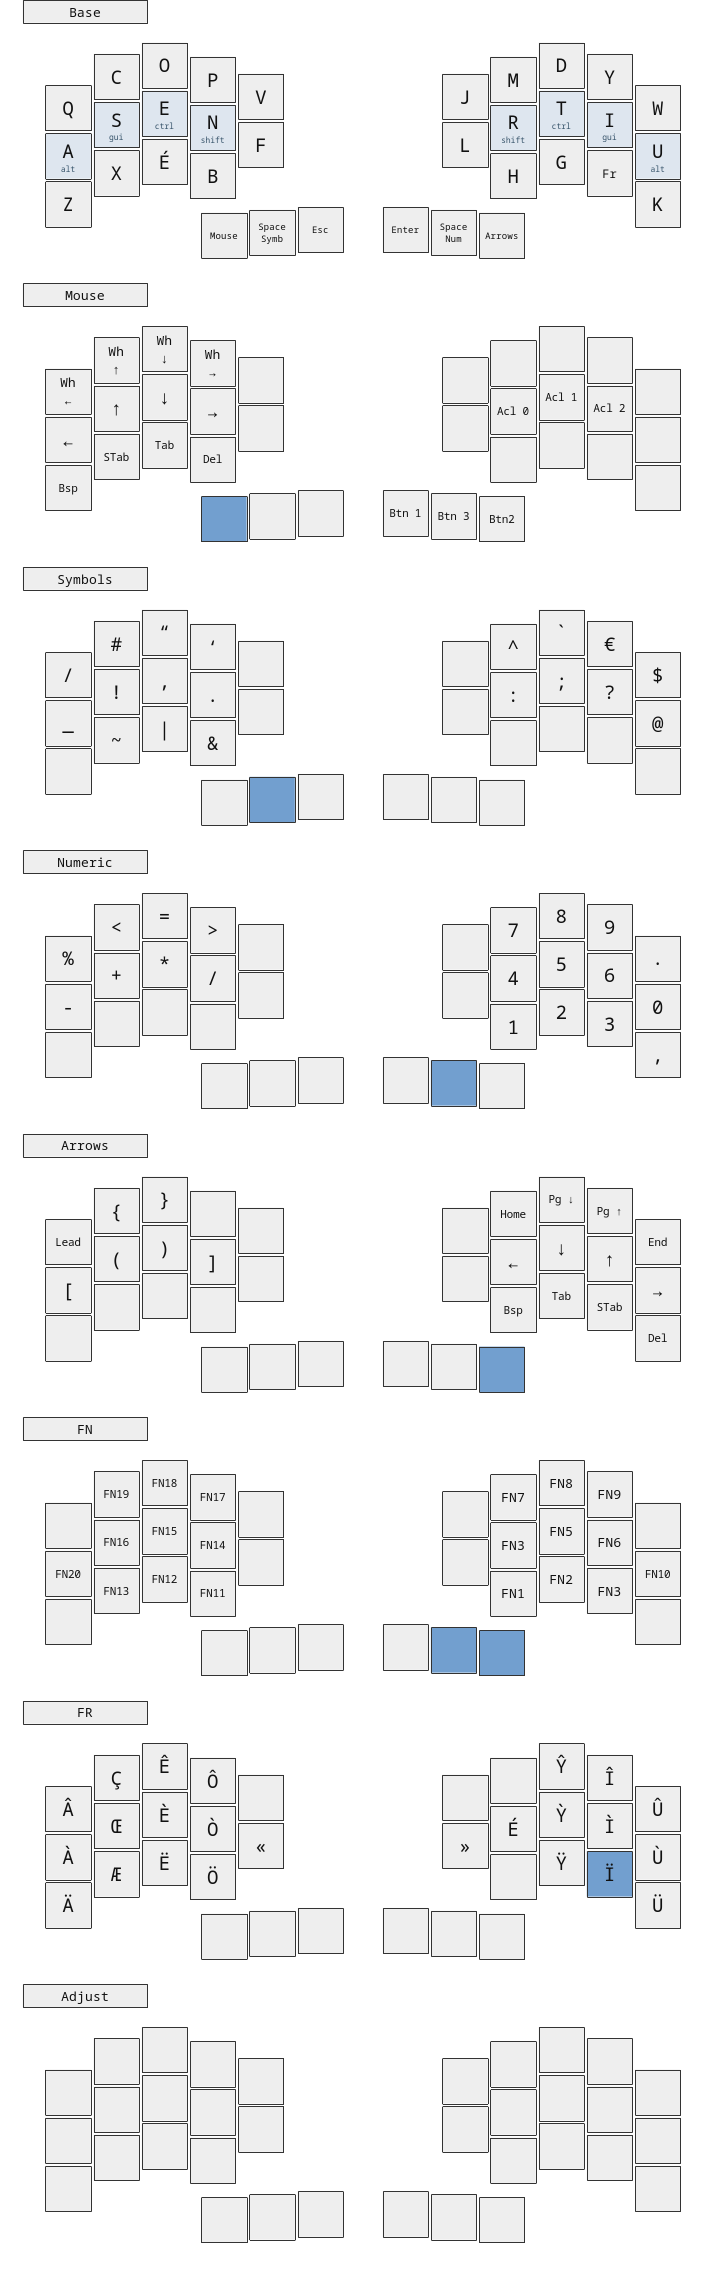
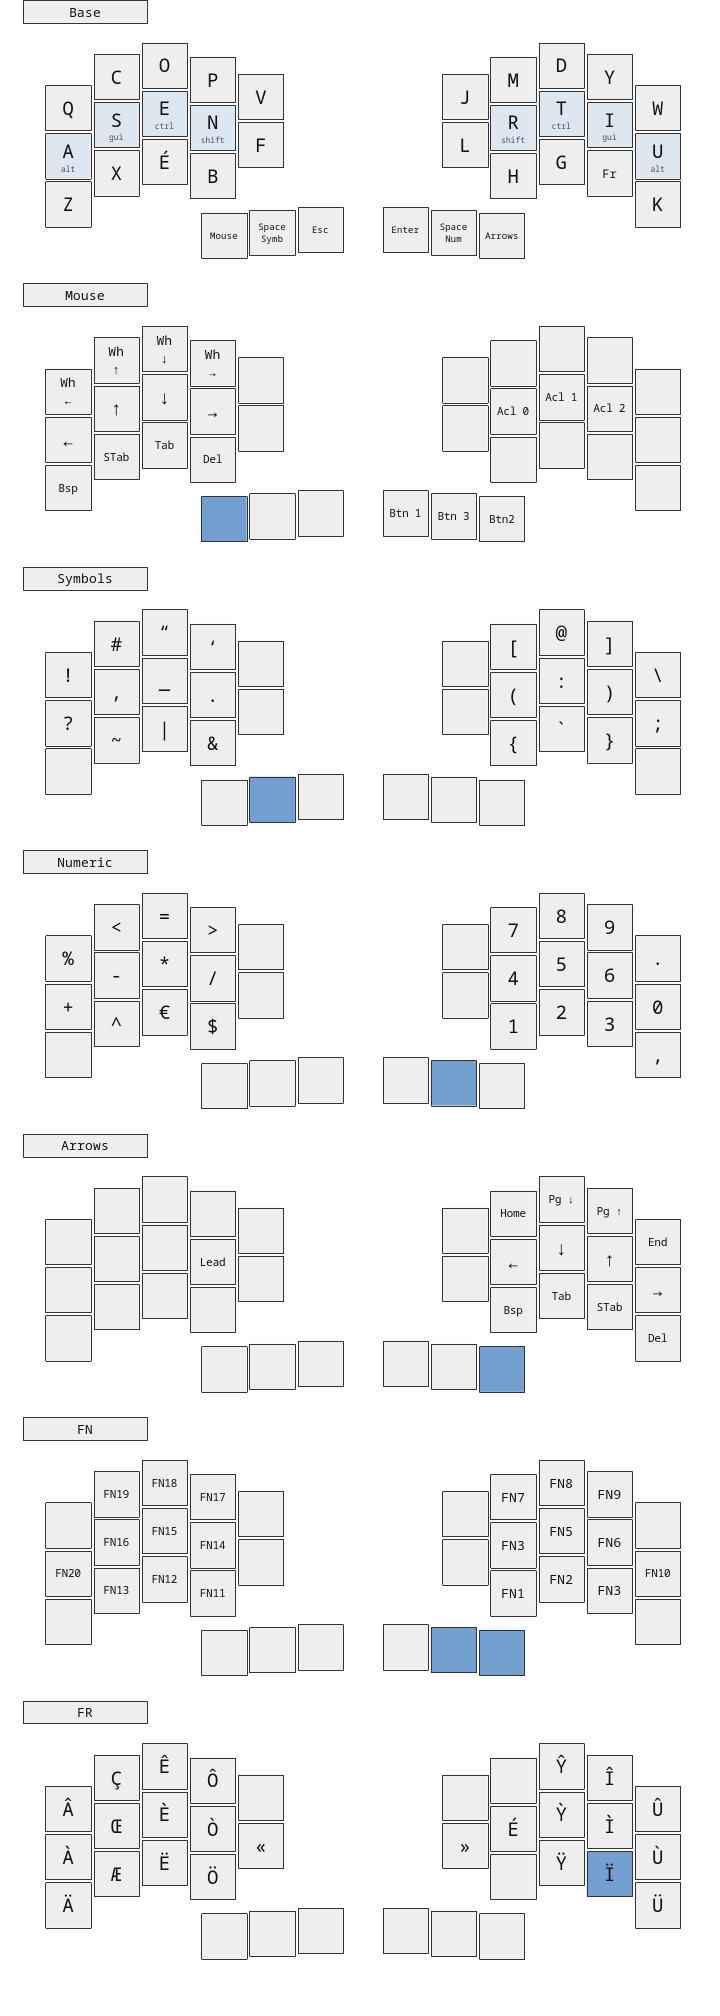
Simplify symbols

diff --git a/keymap.c b/keymap.c
@@ -34,11 +34,11 @@ const uint16_t PROGMEM keymaps[][MATRIX_ROWS][MATRIX_COLS] = {
 
     [_SYMBOLS] = LAYOUT(
     //----------------+-------------+-------------+-------------+----------|       |----------+-------------+-------------+-------------+-------------|
-         KC_BACKSLASH ,   KC_HASH   ,   KC_DQUO   ,  KC_QUOTE   ,  XXXXXXX ,          XXXXXXX ,   KC_CIRC   ,   KC_GRAVE  ,   US_EURO   ,  KC_DOLLAR  ,
+           KC_EXLM    ,   KC_HASH   ,   KC_DQUO   ,  KC_QUOTE   ,  XXXXXXX ,          XXXXXXX ,   KC_LBRC   ,    KC_AT    ,   KC_RBRC   , KC_BACKSLASH,
     //----------------+-------------+-------------+-------------+----------|       |----------+-------------+-------------+-------------+-------------|
-        KC_UNDERSCORE ,   KC_EXLM   ,   KC_COMMA  ,   KC_DOT    ,  XXXXXXX ,          XXXXXXX ,   KC_COLON  , KC_SEMICOLON, KC_QUESTION ,    KC_AT    ,
+         KC_QUESTION  ,   KC_COMMA  ,KC_UNDERSCORE,   KC_DOT    ,  XXXXXXX ,          XXXXXXX ,   KC_LPRN   ,   KC_COLON  ,   KC_RPRN   , KC_SEMICOLON,
     //----------------+-------------+-------------+-------------+----------|       |----------+-------------+-------------+-------------+-------------|
-           XXXXXXX    ,   KC_TILDE  ,   KC_PIPE   , KC_AMPERSAND,                                 XXXXXXX   ,   XXXXXXX   ,   XXXXXXX   ,   XXXXXXX   ,
+           XXXXXXX    ,   KC_TILDE  ,   KC_PIPE   , KC_AMPERSAND,                                 KC_LCBR   ,   KC_GRAVE  ,   KC_RCBR   ,   XXXXXXX   ,
     //----------------+-------------+-------------+-------------|                             |-------------+-------------+-------------+-------------|
     //                                         |---------+---------+---------|   |---------+---------+---------|
                                                  _______ , XXXXXXX , _______ ,     _______ , _______ , _______
@@ -49,9 +49,9 @@ const uint16_t PROGMEM keymaps[][MATRIX_ROWS][MATRIX_COLS] = {
     //----------------+-------------+-------------+-------------+----------|       |----------+-------------+-------------+-------------+-------------|
           KC_PERCENT  ,   KC_LABK   ,   KC_EQUAL  ,   KC_RABK   ,  XXXXXXX ,          XXXXXXX ,     KC_7    ,     KC_8    ,     KC_9    ,   KC_DOT    ,
     //----------------+-------------+-------------+-------------+----------|       |----------+-------------+-------------+-------------+-------------|
-           KC_MINUS   ,   KC_PLUS   , KC_ASTERISK ,   KC_SLASH  ,  XXXXXXX ,          XXXXXXX ,     KC_4    ,     KC_5    ,     KC_6    ,    KC_0     ,
+           KC_PLUS    ,   KC_MINUS  , KC_ASTERISK ,   KC_SLASH  ,  XXXXXXX ,          XXXXXXX ,     KC_4    ,     KC_5    ,     KC_6    ,    KC_0     ,
     //----------------+-------------+-------------+-------------+----------|       |----------+-------------+-------------+-------------+-------------|
-           XXXXXXX    ,   XXXXXXX   ,   XXXXXXX   ,   XXXXXXX   ,                                   KC_1    ,     KC_2    ,     KC_3    ,   KC_COMMA  ,
+           XXXXXXX   ,    KC_CIRC   ,   US_EURO   ,  KC_DOLLAR  ,                                   KC_1    ,     KC_2    ,     KC_3    ,   KC_COMMA  ,
     //----------------+-------------+-------------+-------------|                             |-------------+-------------+-------------+-------------|
     //                                         |---------+---------+---------|   |---------+---------+---------|
                                                  _______ , _______ , _______ ,     _______ , XXXXXXX , _______
@@ -60,9 +60,9 @@ const uint16_t PROGMEM keymaps[][MATRIX_ROWS][MATRIX_COLS] = {
 
     [_ARROWS] = LAYOUT(
     //----------------+-------------+-------------+-------------+----------|       |----------+-------------+-------------+-------------+-------------|
-          QK_LEADER   ,   KC_LCBR   ,   KC_RCBR   ,   XXXXXXX   ,  XXXXXXX ,          XXXXXXX ,   KC_HOME   , KC_PAGE_DOWN,  KC_PAGE_UP ,   KC_END    ,
+           XXXXXXX    ,   XXXXXXX   ,   XXXXXXX   ,   XXXXXXX   ,  XXXXXXX ,          XXXXXXX ,   KC_HOME   , KC_PAGE_DOWN,  KC_PAGE_UP ,   KC_END    ,
     //----------------+-------------+-------------+-------------+----------|       |----------+-------------+-------------+-------------+-------------|
-           KC_LBRC    ,   KC_LPRN   ,   KC_RPRN   ,   KC_RBRC   ,  XXXXXXX ,          XXXXXXX ,   KC_LEFT   ,   KC_DOWN   ,    KC_UP    ,   KC_RIGHT  ,
+           XXXXXXX    ,   XXXXXXX   ,   XXXXXXX   ,  QK_LEADER  ,  XXXXXXX ,          XXXXXXX ,   KC_LEFT   ,   KC_DOWN   ,    KC_UP    ,   KC_RIGHT  ,
     //----------------+-------------+-------------+-------------+----------|       |----------+-------------+-------------+-------------+-------------|
            XXXXXXX    ,   XXXXXXX   ,   XXXXXXX   ,   XXXXXXX   ,                               KC_BACKSPACE,    KC_TAB   ,  S(KC_TAB)  ,   KC_DEL    ,
     //----------------+-------------+-------------+-------------|                             |-------------+-------------+-------------+-------------|
